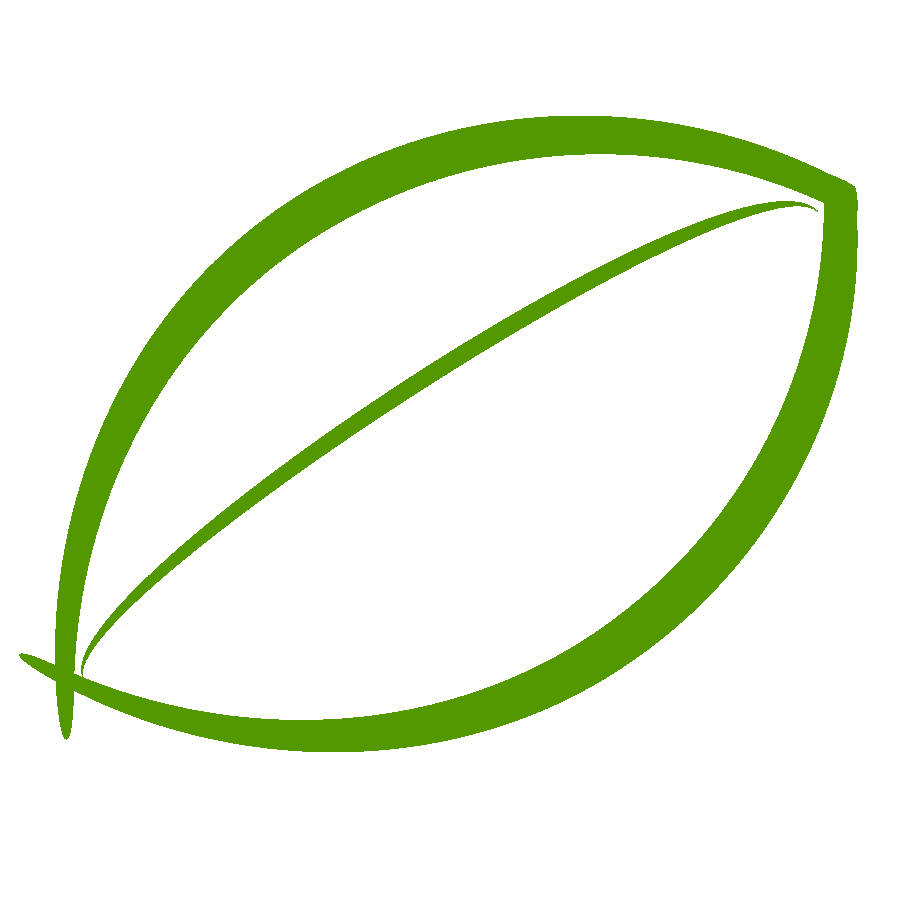
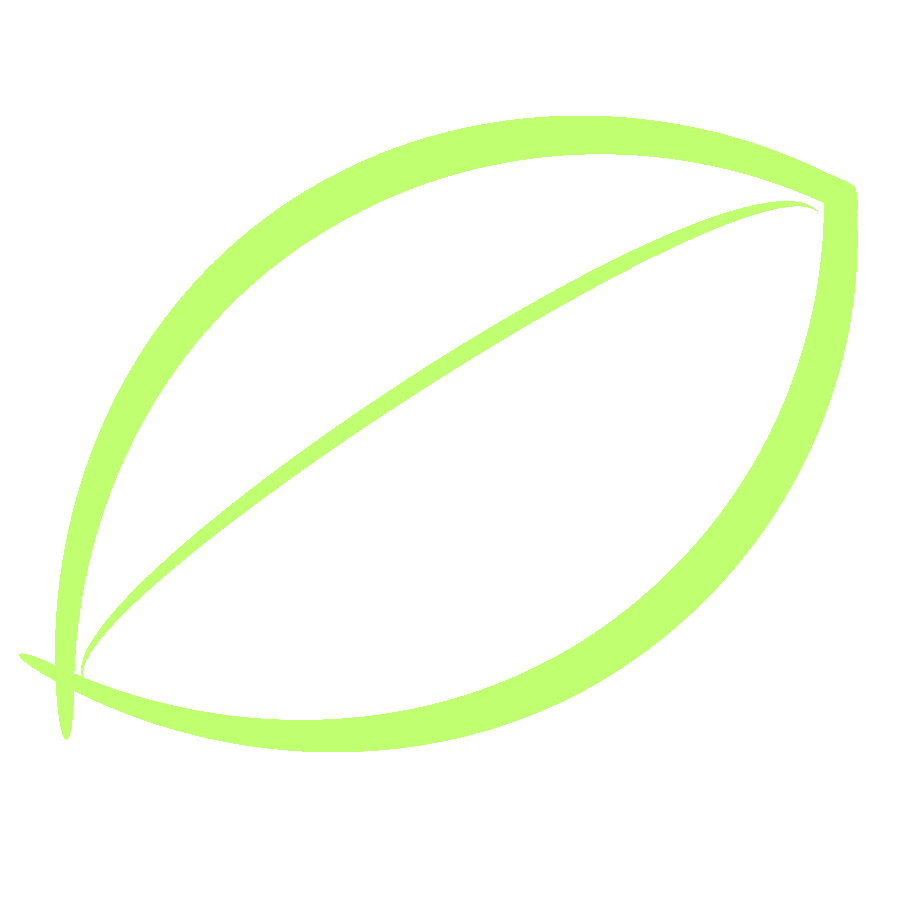
Add leaf to body background.

Changed region(s): [[0.0311, 0.1244, 0.9644, 0.84], [0.1556, 0.5289, 0.3111, 0.6533], [0.1244, 0.6533, 0.1556, 0.6844]]

diff --git a/front/style/main.css b/front/style/main.css
@@ -1,5 +1,10 @@
 body {
   color: #000000;
+  background-color: #fdfffd;
+  background-image: url('/img/leaf.png');
+  background-size: 200px;
+  background-repeat: no-repeat;
+  background-position: center;
   font-family: 'Lato', sans-serif;
   font-size: 12px;
   line-height: 1.6em;
